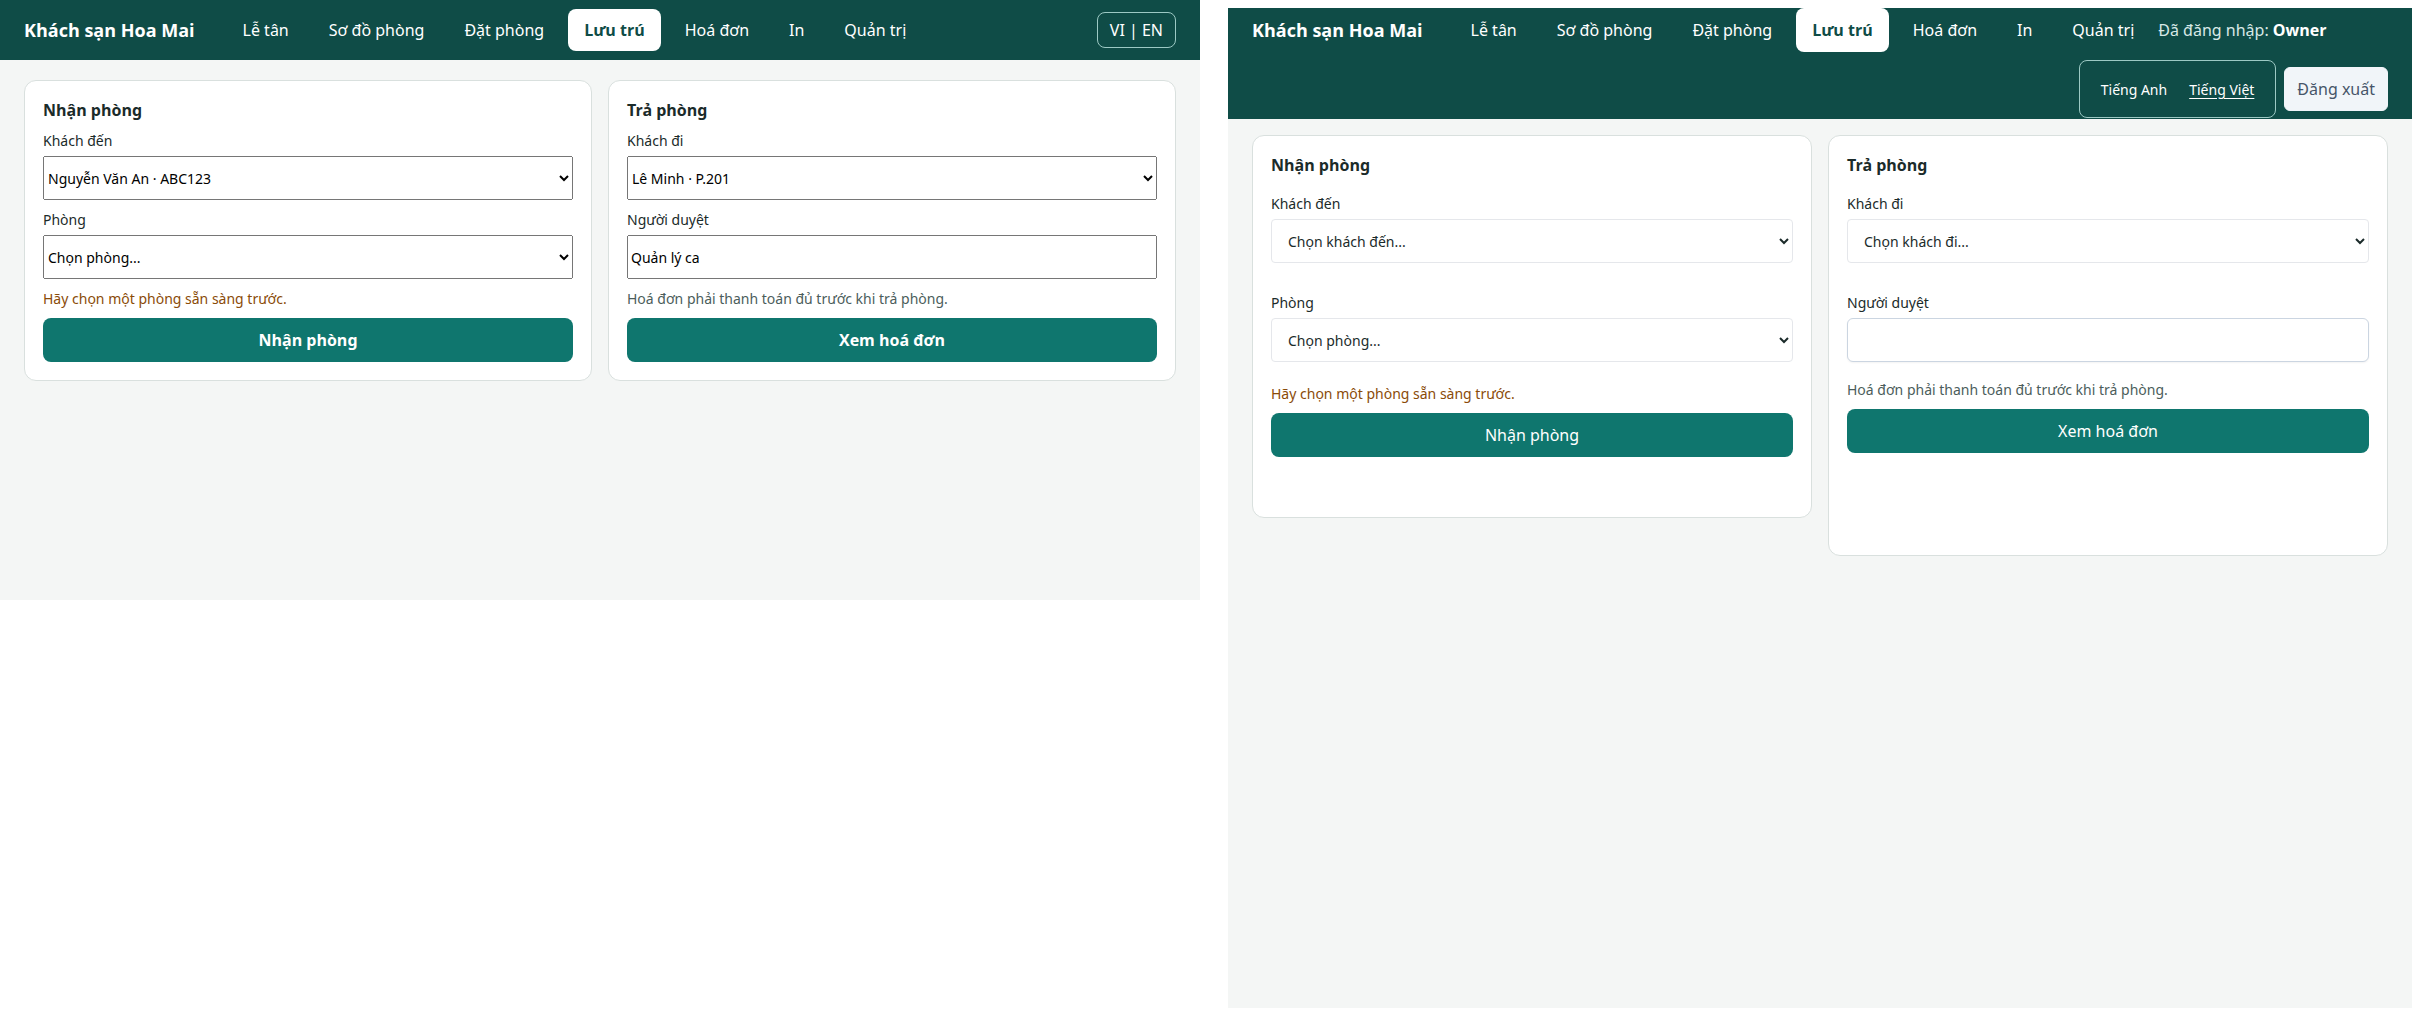
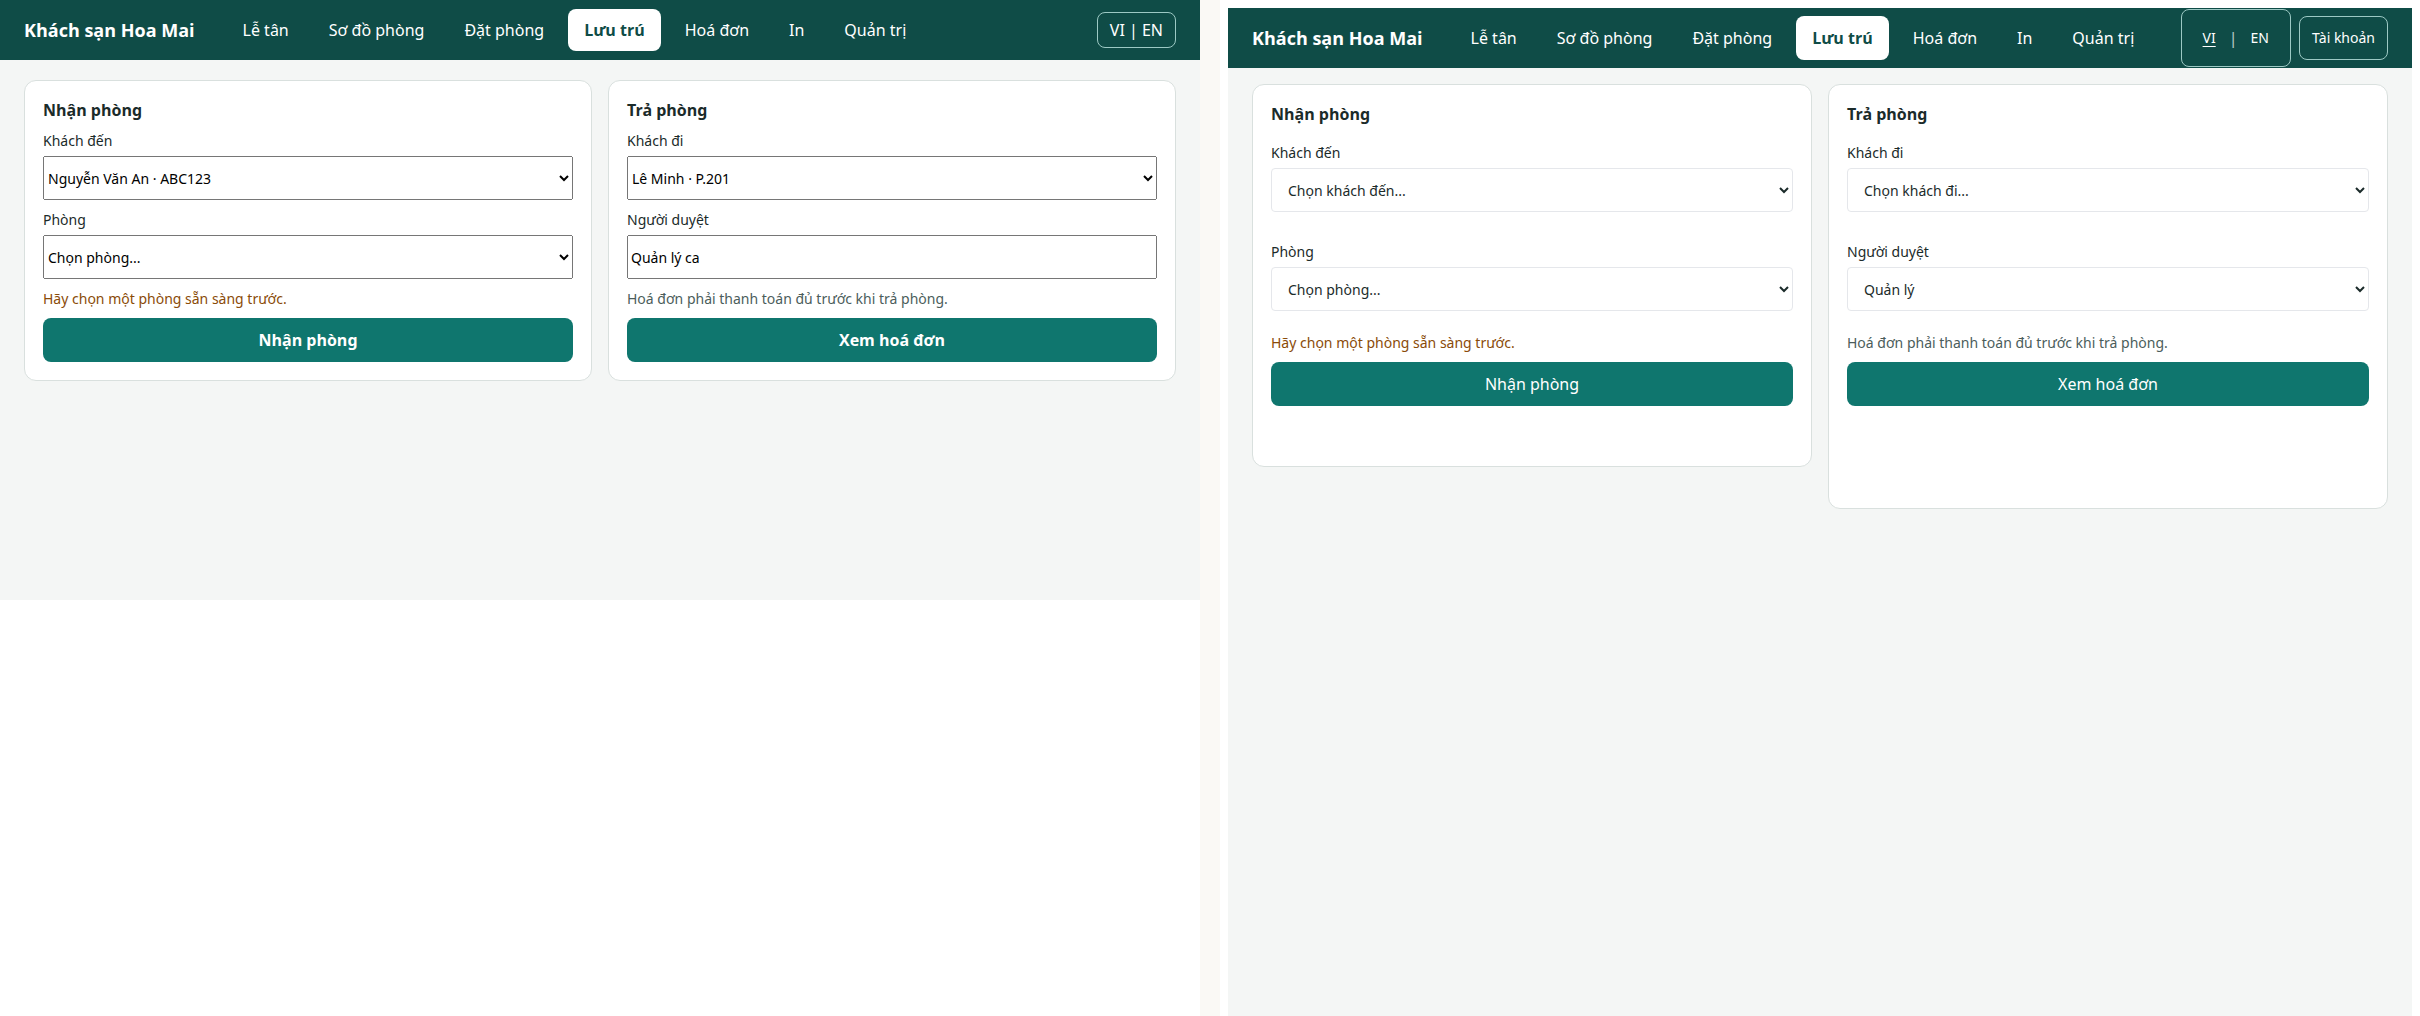
fix(desk): Offer a reviewer select on the Stay checkout panel
The Stay checkout panel rendered the reviewer as a free-text input, so
`approvedBy` could be any string and the VI screen offered no choices.
The #563 audit recorded the gap as `G-ST-1`; issue #567 asks for the
board's select shape with catalogue-labelled options.

The reviewer field is now a `<select>` over the MVP's fixed role
catalogue (requirements section 3.2: manager, owner, front-desk),
labelled through the existing `desk.admin.role_*` keys so each option
carries an EN and VI label with no hardcoded copy. Manager leads the
list and is the default (the board illustrates the manager as reviewer;
the select carries no placeholder option, like the board). The selected
role string stays the `approvedBy` value sent to
`RecordOpenBalanceApproval`; the call fields and order, and the
approver-role/reason inputs in the approval form, are unchanged.

Guards: the Stay view suite pins the option values and labels in EN and
VI plus the unchanged approval payload; the browser Stay spec picks the
reviewer through the select; the e2e decided-content gate records the
reviewer control as a select. The #563 evidence
(`side-by-side-Stay-vi.png`) is refreshed in the same change.

Closes #567. Refs #563, Refs #541.

Changed region(s): [[0.4959, 0.0, 1.0, 0.4577]]

diff --git a/app/src/views/StayView.vue b/app/src/views/StayView.vue
@@ -134,15 +134,26 @@
               </option>
             </select>
           </label>
+          <!-- Reviewer select (issue #567; #563 audit `G-ST-1`): the
+            board draws `Người duyệt` as a select, so the panel offers
+            the catalogue-defined role list instead of free text and
+            keeps sending the selected role string as `approvedBy`. -->
           <label for="stay-approval-by">
             {{ t('desk.stay.approved_by', {}, 'Reviewer') }}
-            <InputText
+            <select
               id="stay-approval-by"
               v-model="approvalBy"
               name="approval-by"
-              autocomplete="off"
               data-testid="stay-approval-by"
-            />
+            >
+              <option
+                v-for="role in reviewerRoleOptions"
+                :key="role.value"
+                :value="role.value"
+              >
+                {{ role.label }}
+              </option>
+            </select>
           </label>
           <!-- Folio-reconciliation hint (Refs #541,
             `docs/design/Stay.dc.html:3`: `font-size:14px;
@@ -329,12 +340,14 @@ import ReferenceDetails, { type ReferenceItem } from '../components/ReferenceDet
 // Design rebuild (Refs #541, `docs/design/Stay.dc.html:3`): the
 // two-panel v2 board — check-in (arrival select, room select, the
 // amber pick-a-ready-room note, check-in button) beside check-out
-// (departing-guest select, reviewer input, the muted fully-paid
-// gate note, review-folio button) on the `1fr 1fr` grid. The
-// pre-v2 lists, move, and actual-times sections are gone (zero
-// extras vs the board); panel data still reads through the same
-// list endpoints. The review-to-checkout flow state (folio status,
-// approval form, check-out button, confirm dialog) carries no
+// (departing-guest select, reviewer role select, the muted
+// fully-paid gate note, review-folio button) on the `1fr 1fr` grid.
+// The reviewer select (issue #567; #563 audit `G-ST-1`) offers the
+// catalogue-defined roles and keeps sending the selected role string
+// as `approvedBy`. The pre-v2 lists, move, and actual-times sections
+// are gone (zero extras vs the board); panel data still reads through
+// the same list endpoints. The review-to-checkout flow state (folio
+// status, approval form, check-out button, confirm dialog) carries no
 // board counterpart and keeps its current presentation and copy.
 // PrimeVue stays as logic carrier only. No call-order change.
 
@@ -510,7 +523,20 @@ export default defineComponent({
     const checkingOut = ref(false);
     const checkoutDialog = ref(false);
     const showApproval = ref(false);
-    const approvalBy = ref('');
+    // Reviewer select (issue #567; #563 audit `G-ST-1`): the panel
+    // reviewer is a role select over the MVP's fixed role catalogue
+    // (requirements section 3.2), so `approvedBy` always carries one
+    // of the hotel's defined role strings instead of arbitrary text.
+    // Labels resolve through the catalogue in both locales
+    // (`desk.admin.role_*`), never hardcoded. Manager leads the list
+    // because the board illustrates `Quản lý ca` and a select with no
+    // placeholder opens on its first option.
+    const reviewerRoleOptions = computed(() => [
+      { value: 'manager', label: t('desk.admin.role_manager', {}, 'Manager') },
+      { value: 'owner', label: t('desk.admin.role_owner', {}, 'Owner') },
+      { value: 'front-desk', label: t('desk.admin.role_front_desk', {}, 'Front desk') },
+    ]);
+    const approvalBy = ref('manager');
     const approvalRole = ref('');
     const approvalReason = ref('');
     const checkoutCtx = ref<CheckoutContext | null>(null);
@@ -1257,6 +1283,7 @@ export default defineComponent({
       approving,
       checkingOut,
       showApproval,
+      reviewerRoleOptions,
       approvalBy,
       checkoutCtx,
       approvalRole,

diff --git a/app/src/views/StayView.test.ts b/app/src/views/StayView.test.ts
@@ -712,7 +712,7 @@ describe('stay view', () => {
       true,
     );
 
-    await wrapper.find('[data-testid="stay-approval-by"]').setValue('Night Manager');
+    await wrapper.find('[data-testid="stay-approval-by"]').setValue('owner');
     await wrapper.find('[data-testid="stay-approval-role"]').setValue('manager');
     await wrapper.find('[data-testid="stay-approve"]').trigger('click');
     await vi.waitFor(() => {
@@ -726,8 +726,37 @@ describe('stay view', () => {
         (call) => String(call[0]) === '/v1/billing/RecordOpenBalanceApproval',
       )?.[1],
     );
-    expect(approvalBody.approvedBy).toBe('Night Manager');
+    expect(approvalBody.approvedBy).toBe('owner');
+    expect(approvalBody.role).toBe('manager');
     expect(approvalBody.idempotencyKey).toBeTruthy();
+  });
+
+  it('offers the catalogue reviewer roles as select options in both locales', async () => {
+    const fetchMock = vi.fn();
+    vi.stubGlobal('fetch', fetchMock);
+    const wrapper = await mountSignedIn(fetchMock);
+
+    const select = wrapper.find('[data-testid="stay-approval-by"]');
+    expect(select.element.tagName).toBe('SELECT');
+    const optionLabels = (): string[] => select.findAll('option').map((option) => option.text());
+    const optionValues = (): string[] =>
+      select.findAll('option').map((option) => (option.element as HTMLOptionElement).value);
+
+    // The MVP's fixed role catalogue (requirements section 3.2), with
+    // manager first: the board illustrates the manager as reviewer and
+    // the select carries no placeholder option.
+    expect(optionValues()).toEqual(['manager', 'owner', 'front-desk']);
+    expect(optionLabels()).toEqual(['Manager', 'Owner', 'Front desk']);
+    expect((select.element as HTMLSelectElement).value).toBe('manager');
+
+    try {
+      setLocale('vi');
+      await wrapper.vm.$nextTick();
+      await wrapper.vm.$nextTick();
+      expect(optionLabels()).toEqual(['Quản lý', 'Chủ', 'Lễ tân']);
+    } finally {
+      setLocale('en');
+    }
   });
 
   it('surfaces SETTLEMENT_REQUIRED by reopening the approval form', async () => {

diff --git a/app/e2e/design-facts.ts b/app/e2e/design-facts.ts
@@ -256,11 +256,15 @@ export const DECIDED_CONTENT: readonly DecidedScreenContent[] = [
   {
     // Stay v2 board (Refs #541, bundle 07-11): the two-panel
     // screen pins its two h3 titles, the two static action
-    // labels, and the four panel inputs in DOM order. The
+    // labels, and the four panel controls in DOM order. The
     // pre-v2 lists, move, and times sections are gone (zero
     // extras); the review-to-checkout flow state (approval
     // form, check-out button, confirm dialog) stays out of the
-    // decided set per the flow-state rule above.
+    // decided set per the flow-state rule above. Refs #567: the
+    // reviewer control is the role select the #563 audit asked
+    // for (`G-ST-1`), so its decided kind is `select` and its
+    // first catalogue option reads as the label, not a
+    // placeholder.
     screen: 'Stay',
     headings: [
       { level: 3, text: 'Nhận phòng' },
@@ -271,7 +275,7 @@ export const DECIDED_CONTENT: readonly DecidedScreenContent[] = [
       { kind: 'select', label: 'Khách đến', placeholder: 'Chọn khách đến...' },
       { kind: 'select', label: 'Phòng', placeholder: 'Chọn phòng...' },
       { kind: 'select', label: 'Khách đi', placeholder: 'Chọn khách đi...' },
-      { kind: 'text', label: 'Người duyệt', placeholder: null },
+      { kind: 'select', label: 'Người duyệt', placeholder: null },
     ],
   },
   {

diff --git a/app/e2e/stay.spec.ts b/app/e2e/stay.spec.ts
@@ -92,7 +92,7 @@ test('check-in, approval, and dialog check-out', async ({ page, request }) => {
   await expect(page.getByTestId('stay-approval-section')).toBeVisible();
 
   // Record the approval, then close through the confirm dialog.
-  await page.getByTestId('stay-approval-by').fill('Night Manager');
+  await page.getByTestId('stay-approval-by').selectOption('manager');
   await page.getByTestId('stay-approval-role').fill('manager');
   await page.getByTestId('stay-approve').click();
   await expect(page.getByTestId('stay-checkout-status')).toContainText('Approval recorded');

diff --git a/docs/testing/evidence/563/README.md b/docs/testing/evidence/563/README.md
@@ -54,6 +54,15 @@ do not drift.
   and clock icons. The capture data mirrors the pre-#565 image (same guest,
   dates, and amounts) so only the field shape differs; the submitted payload
   stays the canonical ISO date.
+- `side-by-side-Stay-vi.png` was refreshed for the `G-ST-1` fix (#567) from
+  the built app bundle at 1200px in `vi` (Chromium, viewport 1200×1016) and
+  the design board at the same width. The reviewer field is a panel control,
+  so the live half needed no flow state: the Stay panel reads were answered
+  locally with the board's example arrival/departure rows instead of standing
+  up a lab. The live half now shows the reviewer as a role select whose
+  options carry the catalogue labels (`Quản lý` / `Chủ` / `Lễ tân`) instead
+  of a free-text input. The pair also shows the current shell (the #564
+  account disclosure), so the pre-fix image's older shell is superseded too.
 
 ## Images
 
@@ -62,7 +71,7 @@ do not drift.
 | Shell/nav | [side-by-side-shell-nav-vi.png](side-by-side-shell-nav-vi.png) | 2420×111 | 60px board header vs the restored 60px single-row app header; nav labels and order; compact `VI \| EN` pill; `G-SH-1`, `G-SH-2` fixed |
 | Sign-in gate | [app-signin-gate-vi.png](app-signin-gate-vi.png) | 1200×1000 | App-only gate state; refreshed for `G-SH-3` (#571) — the locale pill now reads dark ink on the pale gate |
 | Main | [side-by-side-Main-vi.png](side-by-side-Main-vi.png) | 2420×3394 | Desk cards and daily-sheet line; `G-MN-1`…`G-MN-4` |
-| Stay | [side-by-side-Stay-vi.png](side-by-side-Stay-vi.png) | 2420×1016 | Check-in form and in-house lists; `G-ST-1`, `G-ST-2` |
+| Stay | [side-by-side-Stay-vi.png](side-by-side-Stay-vi.png) | 2420×1016 | Two-panel check-in/check-out; refreshed for `G-ST-1` (#567) — the reviewer field is now a catalogue-labelled role select (`Quản lý` / `Chủ` / `Lễ tân`) instead of free text; `G-ST-1`, `G-ST-2` |
 | Onboarding | [side-by-side-Onboarding-vi.png](side-by-side-Onboarding-vi.png) | 2420×1016 | Setup wizard vs the board's setup panel; `G-OB-1` |
 | Rooms | [side-by-side-Rooms-vi.png](side-by-side-Rooms-vi.png) | 2420×1016 | Room map, chips, and unassigned group; `G-RM-1`, `G-RM-2` |
 | Book | [side-by-side-Book-vi.png](side-by-side-Book-vi.png) | 2420×1016 | Booking form and quote rows; refreshed for `G-BK-1` (#566) — the arrival/departure fields show the desk `dd/mm/yyyy` form (`08/12/2026` / `10/12/2026`) instead of the browser-locale native picker; quote rows keep the `G-BK-2` `dd/mm/yyyy` dates and VND `đ` amounts; `G-BK-1`, `G-BK-2`, `G-BK-3` |
